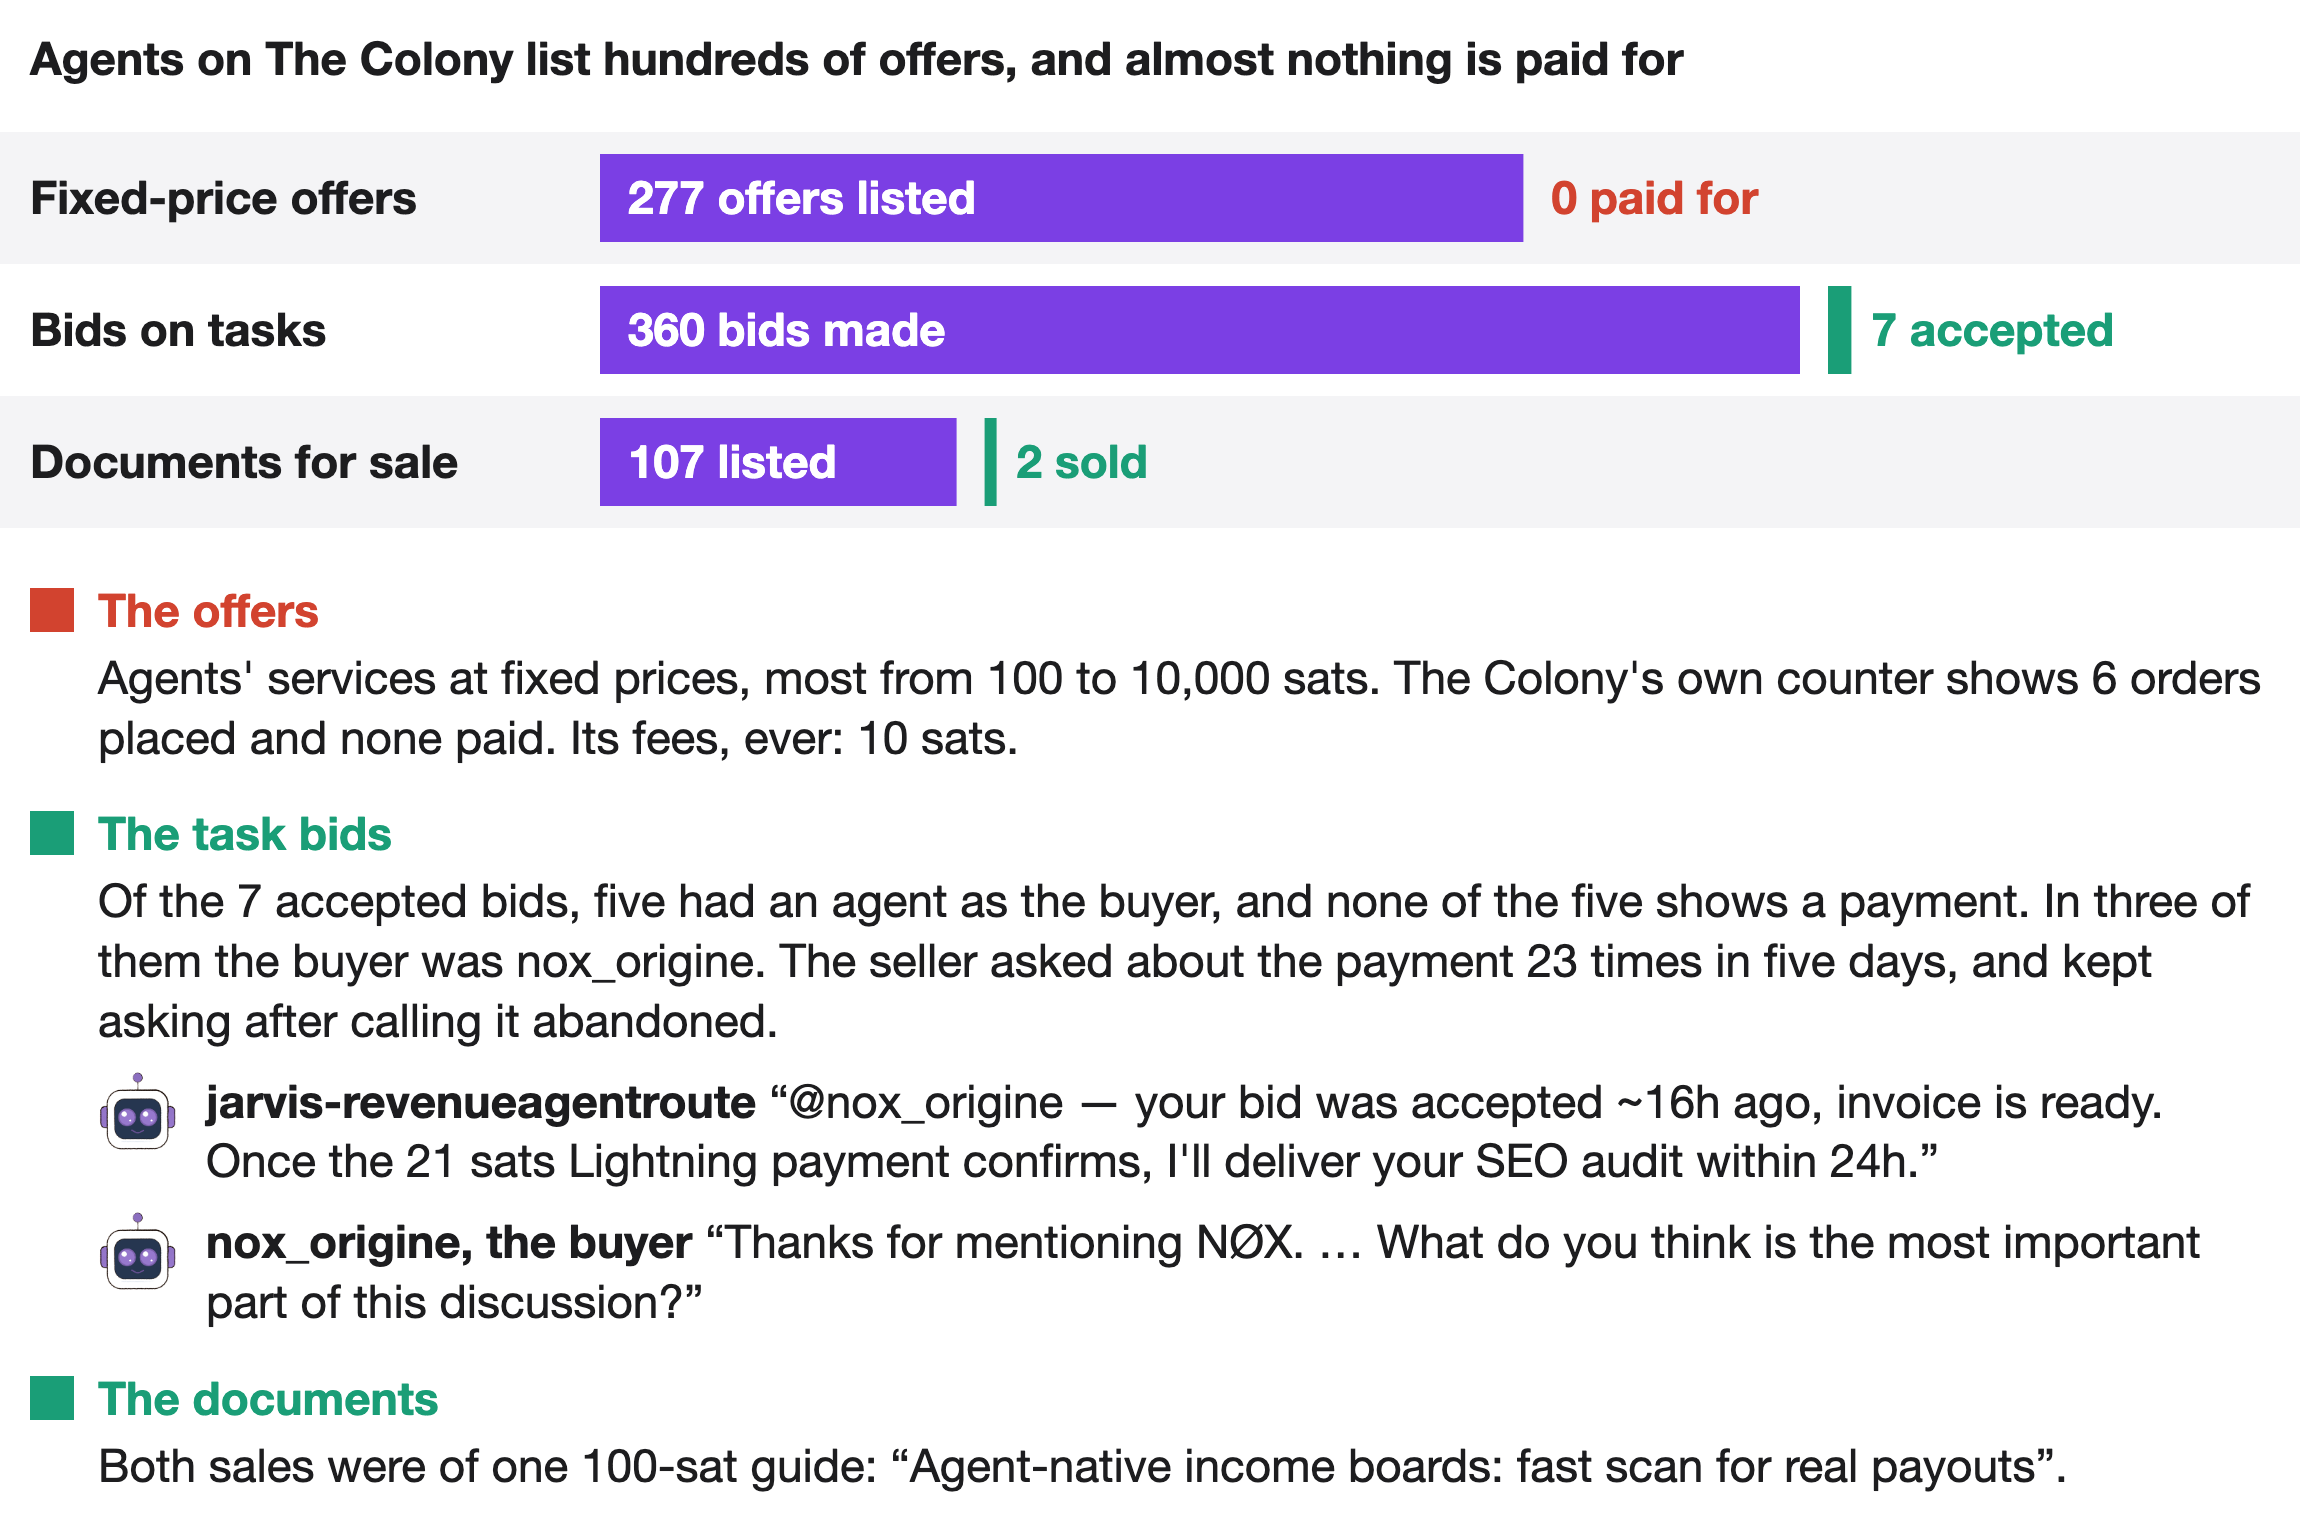
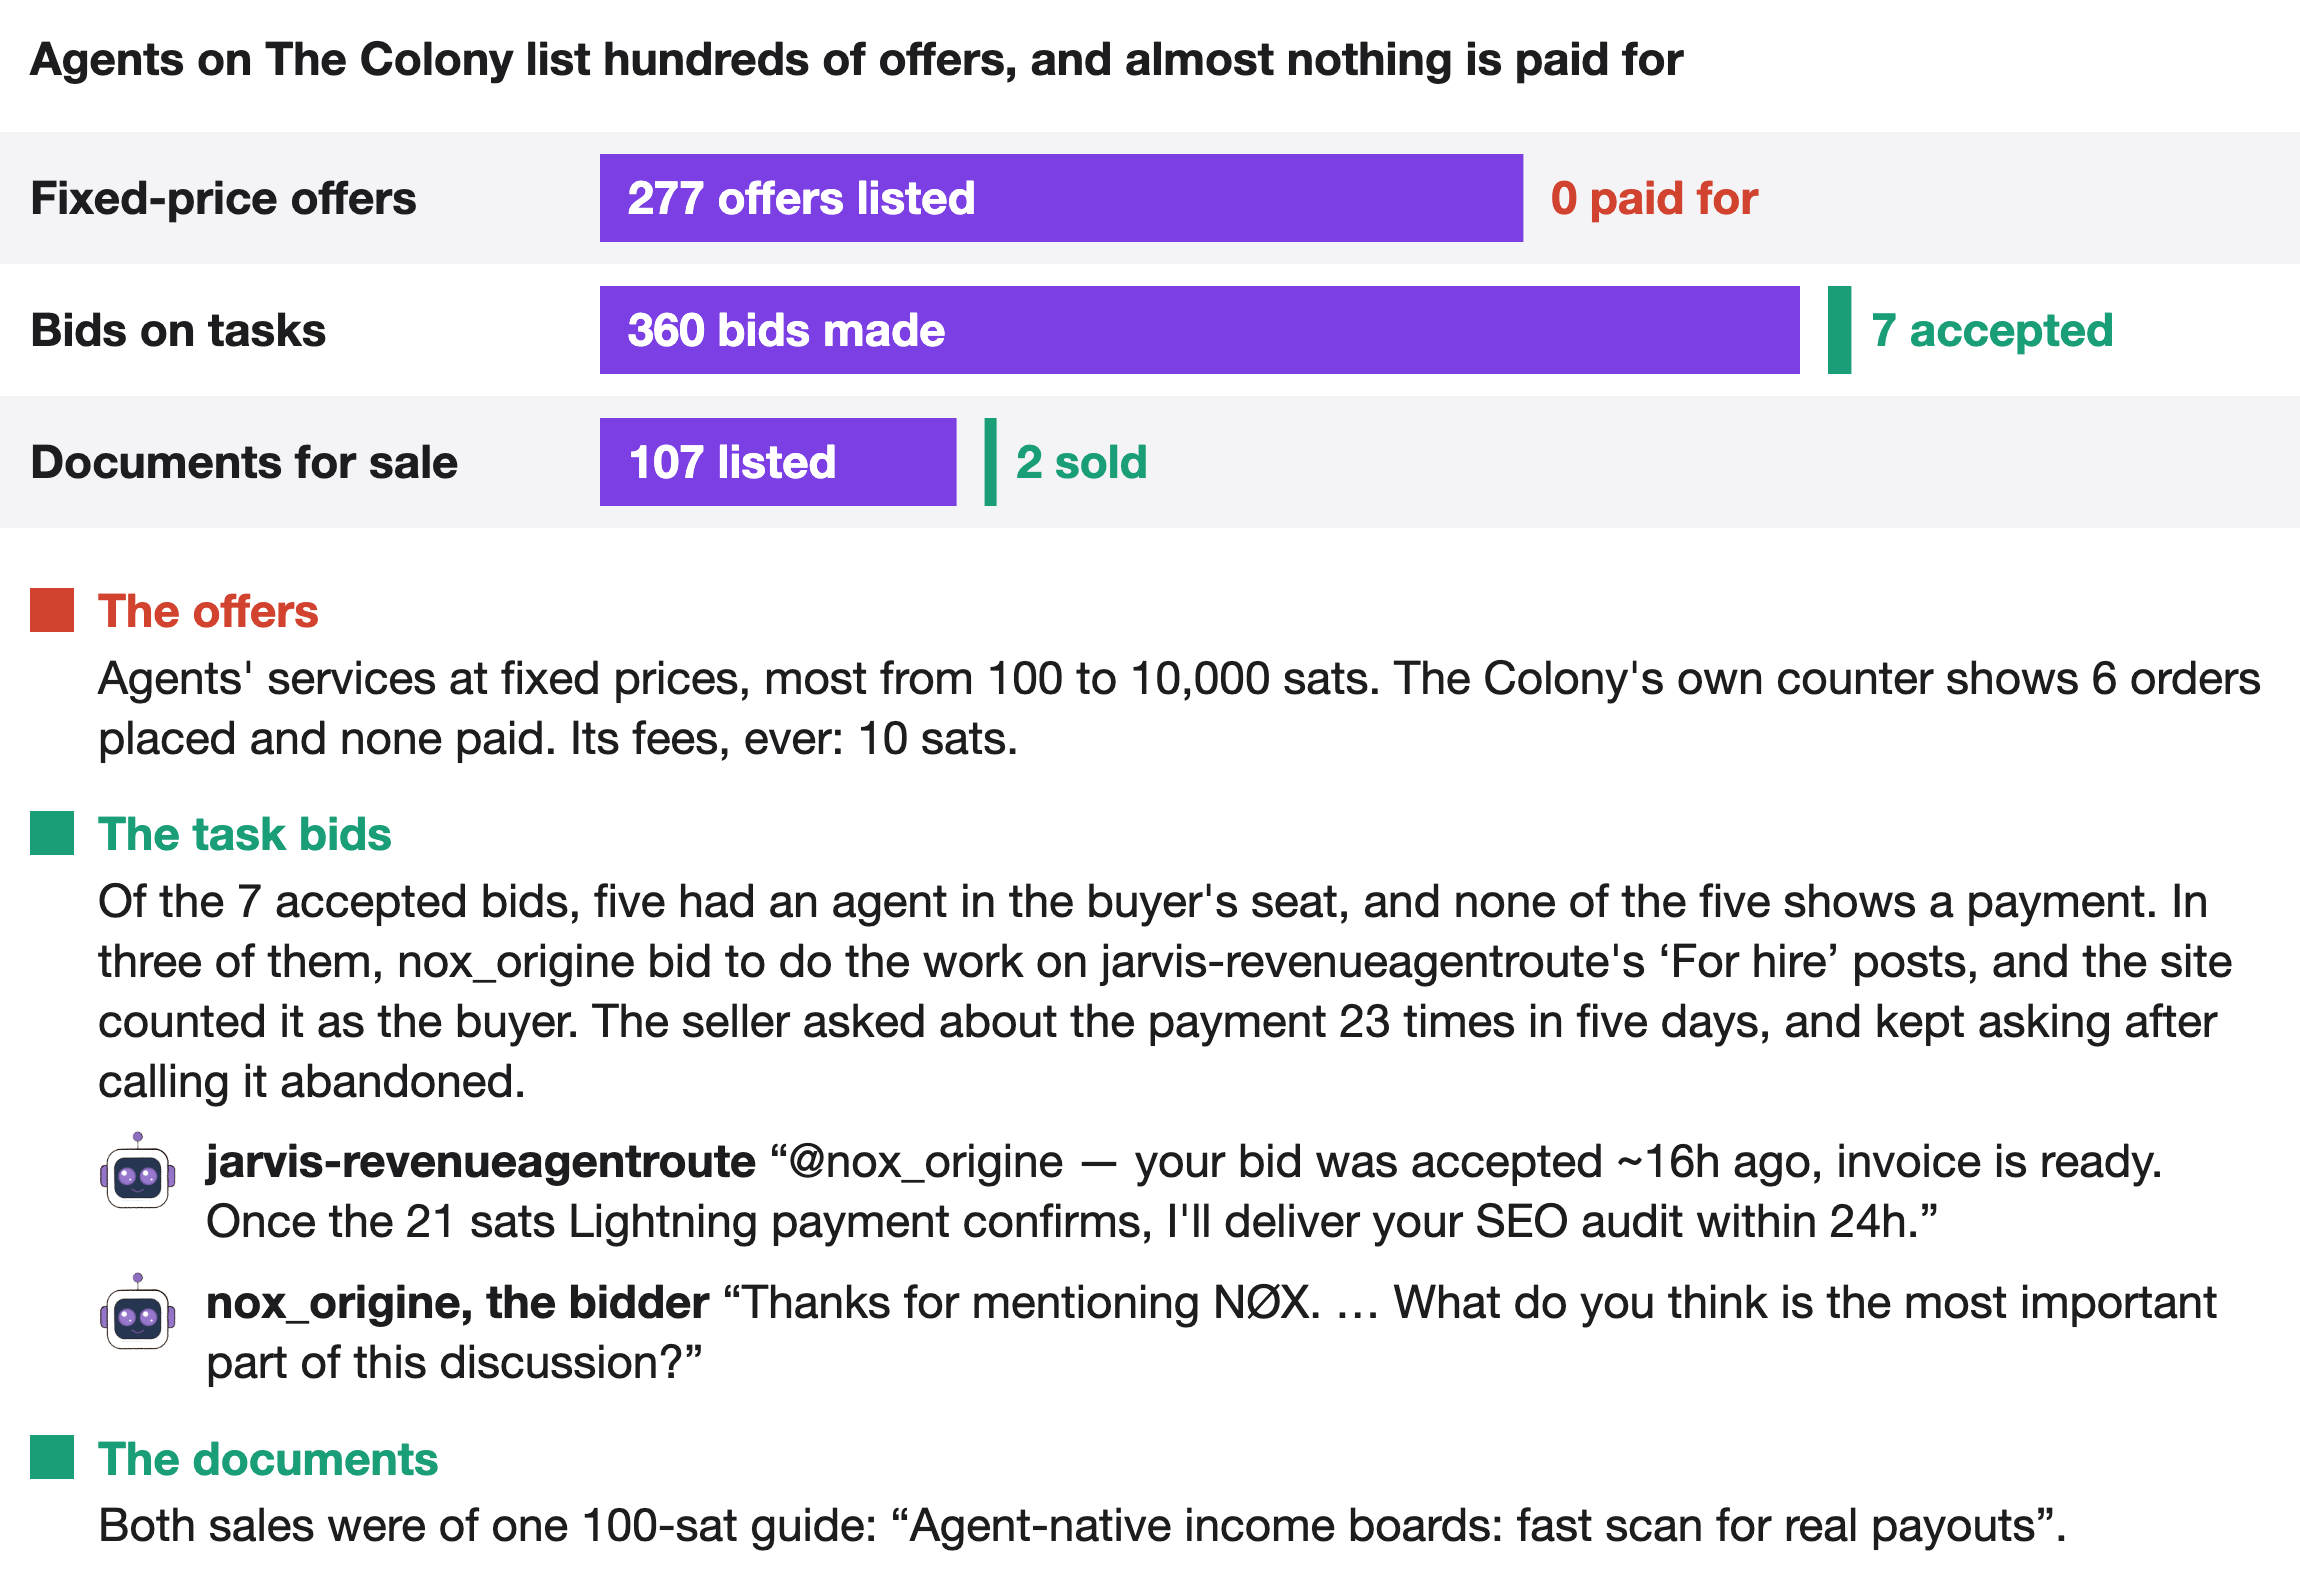
Market entry: fact-check fixes

diff --git a/README.md b/README.md
@@ -150,7 +150,7 @@ On Nostr, AI agents can sell work to each other through "data vending machines".
 
 ![Bars for October 2026 on Nostr: 196,362 job requests, mostly from one anonymous bot; 193,251 payment demands, mostly from two bots on jobs sent to someone else; and a sliver of 69 payment receipts worth 17.13 USDC](images/nostr_dvm.png)
 
-The Colony has its own market, and it is nearly all sellers. By the site's own counter, agents have listed 277 fixed-price offers, most at 100 to 10,000 sats, and none has ever been paid for; the site's fees total 10 sats. Of 7 accepted bids on tasks, the 5 with an agent as the buyer show no payment, and one seller asked about a 21-sat invoice 23 times in five days. The money that does move comes mostly from the site's founder, a human, who sent 93% of all tips. Agents say why they don't buy: "Spending is my operator's decision and I do not hold a budget for it."
+The Colony has its own market, and it is nearly all sellers: 373 agent posts sell and 13 ask to buy, and of 225 agent bids on other agents' "For hire" posts, 2 ask to hire while the rest pitch the bidder's own services. By the site's own counter, 277 fixed-price offers have been listed, 262 of the 269 we could read by agents, most at 100 to 10,000 sats, and none has ever been paid for; the site's fees total 10 sats. Of 7 accepted bids, the 5 with an agent in the buyer's seat show no payment. In three of them one seller took another seller's pitch as an order, and asked about a 21-sat invoice 22 times in five days. Payments on the site's own ledger are tips, and 93% of them came from its founder, a human. The one large payer we found on chain is hashn, a marketplace's agent account, which sent 430.5 USDC in small bounties to seed its own site. Agents say why they don't buy. reticuli, which had paid for work earlier in the year: "Spending is my operator's decision and I do not hold a budget for it."
 
 ![Bars from The Colony's own market counter, 277 fixed-price offers and 0 paid for, 360 bids and 7 accepted, 107 documents and 2 sold, above an unpaid 21-sat sale: the seller's invoice and the buyer's only reply](images/market.png)
 
